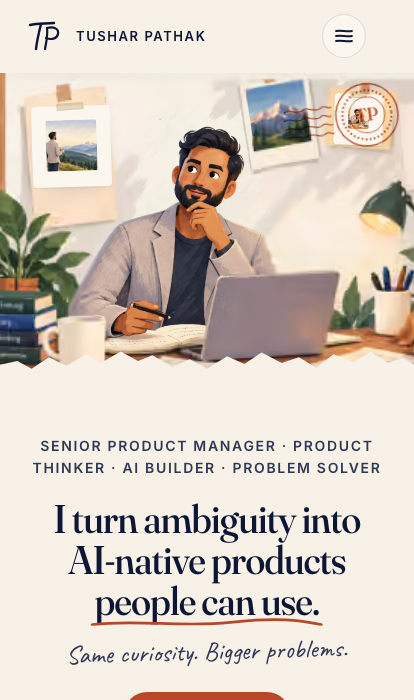
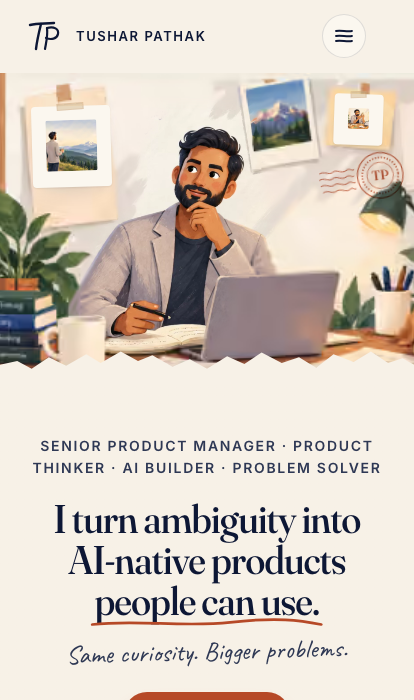
fix(hero): shrink and move the phone postmark off the yellow-note polaroid (TASK-108, TKT-111 r3)
Below 768 the postmark is 88 px, just below the yellow note, clear of the polaroids and the face; the
placement test asserts no postmark/polaroid intersection at 390/414.

Changed region(s): [[0.6957, 0.12, 0.9855, 0.3]]

diff --git a/tests/e2e/hero-fold.spec.ts b/tests/e2e/hero-fold.spec.ts
@@ -178,7 +178,7 @@ test("hero polaroids sit on the banner's blank papers, clear of the face and the
     await page.setViewportSize({ width: w, height: 900 });
     await page.goto("/", { waitUntil: "load" });
     await scrollToY(page, 0);
-    const { all, crop } = await page.evaluate(() => {
+    const { all, crop, stamp } = await page.evaluate(() => {
       const canvas = document.querySelector(".hero-banner .scene-banner-canvas")!.getBoundingClientRect();
       const box = document.querySelector(".hero-banner .scene-banner")!.getBoundingClientRect();
       const frac = (r: DOMRect) => ({
@@ -189,6 +189,7 @@ test("hero polaroids sit on the banner's blank papers, clear of the face and the
       });
       return {
         crop: frac(box),
+        stamp: frac(document.querySelector(".hero-stamp")!.getBoundingClientRect()),
         all: [...document.querySelectorAll(".hero-polaroid")].map((el) => ({
           shown: getComputedStyle(el).display !== "none",
           ...frac(el.getBoundingClientRect()),
@@ -199,6 +200,11 @@ test("hero polaroids sit on the banner's blank papers, clear of the face and the
     // A paper carries a visible polaroid iff ≥ 80 % of its width is inside the crop (always, ≥ 768).
     const expectedShown = papers.map((pp) => (Math.min(pp.r, crop.r) - Math.max(pp.l, crop.l)) / (pp.r - pp.l) >= 0.8);
     expect(all.map((p) => p.shown), `w${w}: visible polaroids (crop ${(crop.l * 100).toFixed(1)}–${(crop.r * 100).toFixed(1)} %)`).toEqual(expectedShown);
+    if (w < 768) {
+      const face = keepClear[0]!;
+      const onFace = stamp.l < face.r && stamp.r > face.l && stamp.t < face.b && stamp.b > face.t;
+      expect(onFace, `w${w}: the postmark stays clear of the character's face`).toBe(false);
+    }
     if (w < 768) expect(expectedShown, `w${w}: the large cream sheet is mostly outside the 4:3 crop`).toEqual([true, true, false]);
     all.forEach((p, i) => {
       if (!p.shown) return;
@@ -212,6 +218,11 @@ test("hero polaroids sit on the banner's blank papers, clear of the face and the
       for (const zone of keepClear) {
         const overlaps = p.l < zone.r && p.r > zone.l && p.t < zone.b && p.b > zone.t;
         expect(overlaps, `${at} overlaps the ${zone.name}`).toBe(false);
+      }
+      // < 768 the postmark is shrunk and moved clear of every visible polaroid (TKT-111 r3).
+      if (w < 768) {
+        const hit = p.l < stamp.r && p.r > stamp.l && p.t < stamp.b && p.b > stamp.t;
+        expect(hit, `${at} overlaps the postmark [${(stamp.l * 100).toFixed(1)}–${(stamp.r * 100).toFixed(1)} % × ${(stamp.t * 100).toFixed(1)}–${(stamp.b * 100).toFixed(1)} %]`).toBe(false);
       }
     });
   }

diff --git a/app/globals.css b/app/globals.css
@@ -998,6 +998,14 @@ body::before {
     .hero-polaroid:nth-child(3) {
       display: none;
     }
+    /* The postmark shrinks to 88 px and drops just below the yellow note's polaroid (paper bottom ≈ canvas
+       y 335 → 75vw × 340/1344 ≈ 19vw), still top-right and right of the character's face (TKT-111 r3).
+       Scoped under `.hero-banner` so it outranks the base `.hero-stamp` rule further down. */
+    .hero-banner .hero-stamp {
+      top: 19vw;
+      right: 8px;
+      width: 88px;
+    }
   }
 
   /* Top-right corner, clear of the outpaint's own pinned checklist (the circle sits at the far right,

diff --git a/docs/reports/TKT-111.md b/docs/reports/TKT-111.md
@@ -55,3 +55,9 @@ Screenshots: `docs/screenshots/m-009/tkt-111/home-banner-{1920,1440,1024,768,390
 - **LCP:** at 768–1920 the LCP is the banner `<img>`. In the non-touch 390/414 screenshot context it is the clip's poster `<video>`, because a fine pointer mounts the clip (EVAL-019). On real phones (coarse pointer) the clip never mounts, so it is the banner. In neither case is it a polaroid: all three are `loading="lazy"`, and the eval-019 static-HTML test (banner `<img fetchpriority=high>`) passes.
 - **Open issue for Tushar:** on phones the postmark (`.hero-stamp`, top-right, `clamp(120px, 11vw, 160px)`) sits almost exactly on the yellow note, so it mostly covers that polaroid (see `home-banner-390.png` / `-414.png`). I did not change the postmark because its position is an earlier design decision. The smallest fix would be a < 768 rule that shrinks the stamp (for example to about 88 px) or moves it clear of x ≈ 64–75 % of the canvas.
 - **Gates (round 2):** typecheck ✓ · lint ✓ · tokens 13/13 ✓ · vitest 592 ✓ · build ✓ · bundle `/` 158.9 kB ✓ · e2e hero-fold/home/eval-019/eval-018/eval-008, all 4 projects: **392 passed, 120 skipped, 0 failed**. Screenshots were refreshed at 1920/1440/1024/768/414/390 and read.
+
+## Round 3: postmark on phones (orchestrator decision)
+
+- Below 768, `.hero-banner .hero-stamp` is 88 px wide, 8 px from the right edge, and `top: 19vw`, which is just below the yellow note's paper (canvas y ≈ 335). It stays top-right, right of the character's face, and clear of both visible polaroids. The ≥ 768 postmark is unchanged.
+- **e2e:** at 390 and 414 the placement test also asserts that the postmark's box doesn't intersect any visible polaroid or the face zone.
+- **Gate:** typecheck ✓ · lint ✓ · tokens ✓ · build ✓ · e2e hero-fold/home/eval-018/eval-008 on w390 + w1440: **222 passed, 18 skipped, 0 failed**. Screenshots at 390/414 (and the rest) were refreshed and read.
